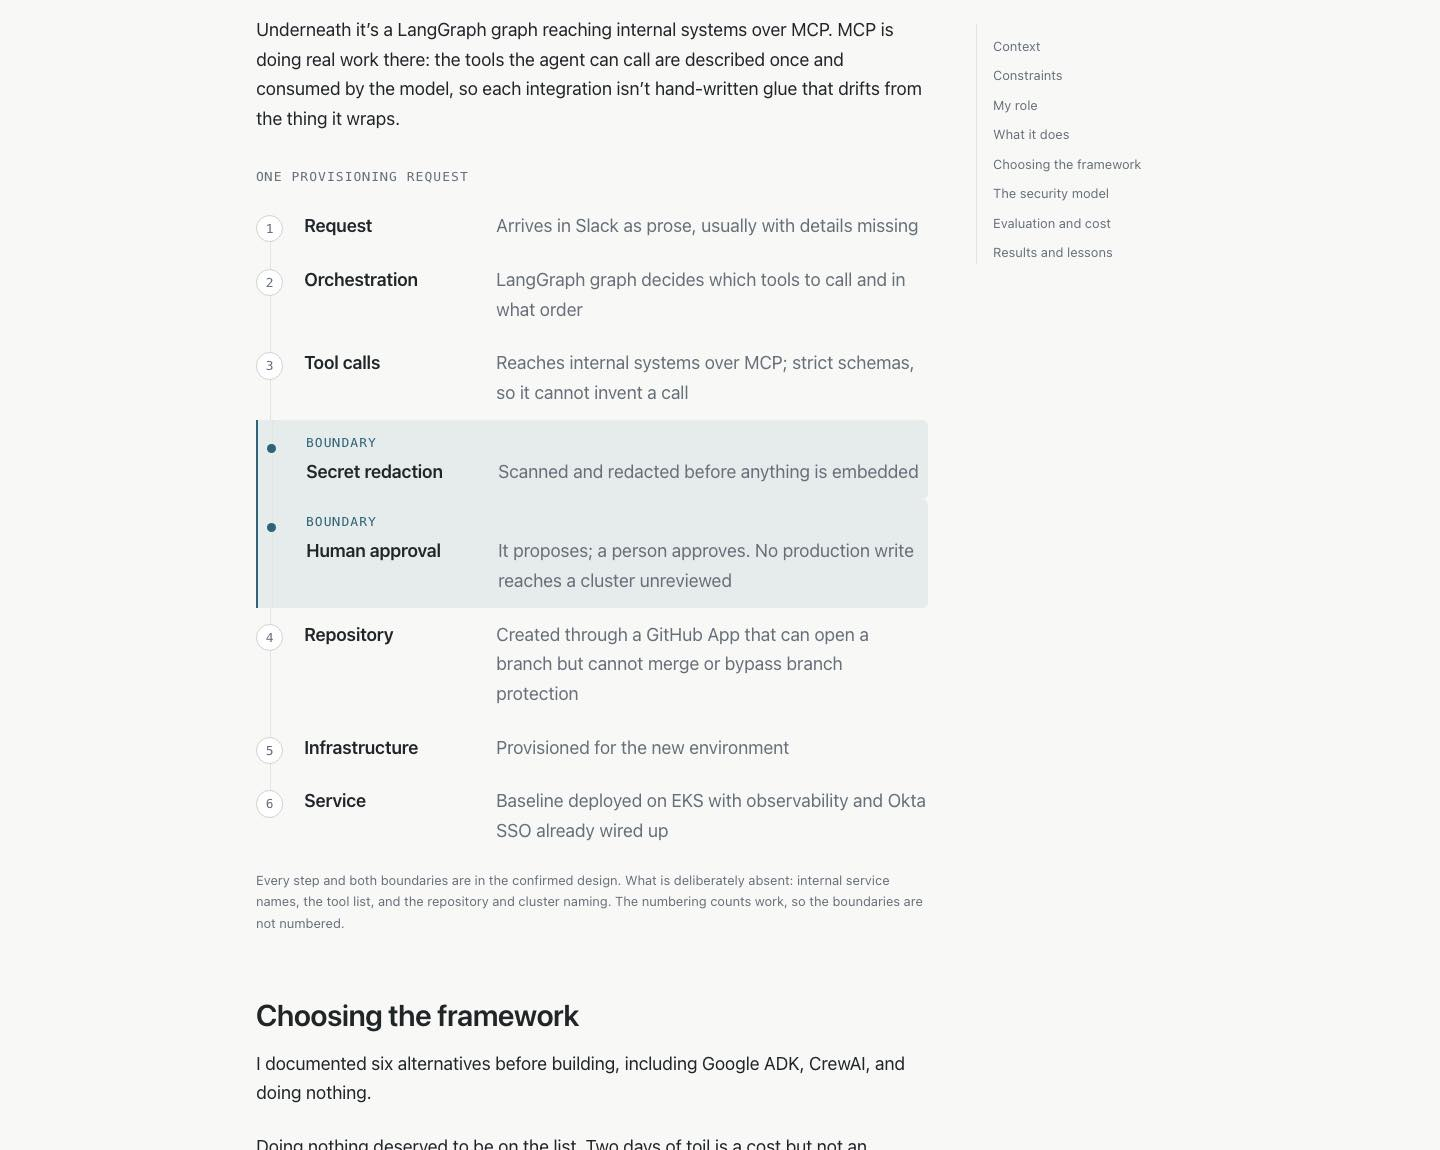
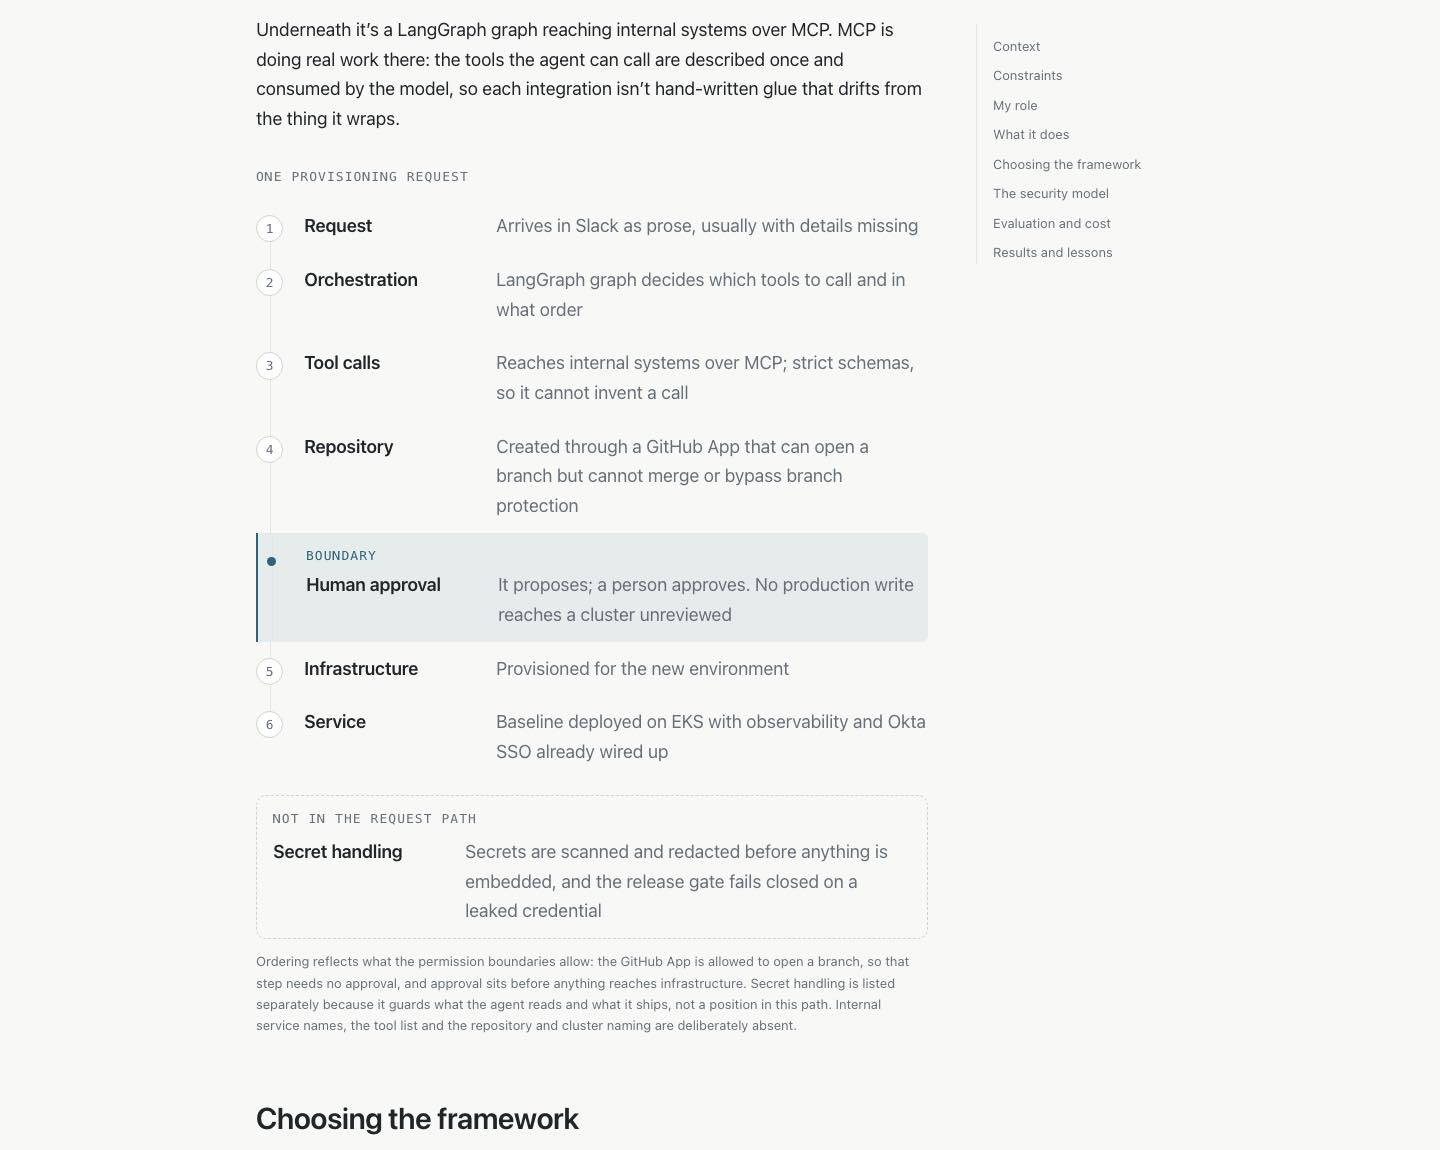
fix: put the agent diagram's boundaries in their real positions
Review finding, and it was correct on both counts.

Secret handling was drawn as a sequential gate between the tool calls and
human approval. The confirmed sentence is "secrets are scanned and redacted
before anything is embedded, with the release gate failing closed on a leaked
credential": that guards what the agent reads into its context and what its
own releases ship. Neither is a stage in a provisioning request, so placing
it in the numbered path asserted an execution position nothing supports, and
implied the agent's output is redacted before a human sees it, which is a
different claim.

Human approval sat before the repository step, which contradicted the next
line of the same record. The GitHub App is explicitly permitted to create
branches, so creating one needs no approval; what approval gates is a
production write reaching a cluster. Approval now sits after the repository
step and before infrastructure and the deployed service, which is the
ordering the permission boundaries themselves imply.

The flow shortcode gains a `note:` row type for a control that has no single
position in the sequence. Those rows are lifted out of the ordered list into
a separate block headed "Not in the request path", so the numbered list only
ever claims an order for things that have one. Without that row type the
only options were to misplace the control or to drop it, and dropping it
would have lost the most interesting part of the design.
[…]

Changed region(s): [[0.1562, 0.3652, 0.6562, 1.0], [0.1562, 0.3652, 0.3125, 0.5174]]

diff --git a/layouts/_shortcodes/flow.html b/layouts/_shortcodes/flow.html
@@ -6,12 +6,17 @@
        {{< flow caption="..." label="..." >}}
        Step name :: what happens
        gate: Boundary name :: what it refuses
+       note: Control name :: applies across the whole path, not at one point
        {{< /flow >}}
 
      A line prefixed `gate:` renders as a boundary rather than a step, because
      in an agent the interesting part is not the happy path, it is where the
      path is interrupted. Steps are numbered; gates are not, so the numbering
      counts work and not checkpoints.
+
+     `note:` is for a control that does not sit at one position in the
+     sequence. Putting such a control in the numbered path would assert an
+     execution order, which is the mistake this row type exists to avoid.
 
      Same reasoning as the `stack` shortcode: HTML rather than an SVG, so it
      reflows at 390px, follows the theme tokens, stays selectable and is read
@@ -22,11 +27,13 @@
   {{- $line := trim . " \t" -}}
   {{- with $line -}}
     {{- $isGate := hasPrefix (lower $line) "gate:" -}}
+    {{- $isNote := hasPrefix (lower $line) "note:" -}}
     {{- $body := $line -}}
-    {{- if $isGate }}{{ $body = trim (substr $line 5) " " }}{{ end -}}
+    {{- if or $isGate $isNote }}{{ $body = trim (substr $line 5) " " }}{{ end -}}
     {{- $parts := split $body "::" -}}
     {{- $rows = $rows | append (dict
         "gate" $isGate
+        "note" $isNote
         "name" (trim (index $parts 0) " ")
         "detail" (cond (gt (len $parts) 1) (trim (index $parts 1) " ") "")
       ) -}}
@@ -36,8 +43,12 @@
 
 <figure class="diagram flow" role="group" aria-labelledby="{{ $id }}-label">
   <p class="diagram__label mono" id="{{ $id }}-label">{{ .Get "label" | default "Request flow" }}</p>
+  {{/* Sequenced rows stay in the ordered list. Cross-cutting controls are
+       lifted out of it, so the list only ever claims an order for things
+       that have one. */}}
   <ol class="flow__steps">
     {{- range $rows }}
+    {{- if not .note }}
     <li class="flow__row{{ if .gate }} flow__row--gate{{ end }}">
       {{- if .gate }}
       <span class="flow__gate-label mono">Boundary</span>
@@ -48,7 +59,17 @@
       {{- end }}
     </li>
     {{- end }}
+    {{- end }}
   </ol>
+  {{- $notes := where $rows "note" true }}
+  {{- with $notes }}
+  <dl class="flow__controls">
+    <dt class="flow__controls-label mono">Not in the request path</dt>
+    {{- range . }}
+    <dd><span class="flow__name">{{ .name }}</span>{{ with .detail }} <span class="flow__detail">{{ . }}</span>{{ end }}</dd>
+    {{- end }}
+  </dl>
+  {{- end }}
   {{- with .Get "caption" }}
   <figcaption>{{ . | markdownify }}</figcaption>
   {{- end }}

diff --git a/assets/css/main.css b/assets/css/main.css
@@ -1493,3 +1493,35 @@ main > .section:last-of-type {
     grid-column: 1 / -1;
   }
 }
+
+/* Controls that are not positioned in the sequence. Visually attached to the
+   flow but outside its numbering, so the diagram never implies an execution
+   order for something that does not have one. */
+.flow__controls {
+  margin: var(--space-4) 0 0;
+  padding: var(--space-3) var(--space-4);
+  border: 1px dashed var(--border-strong);
+  border-radius: var(--radius-lg);
+  display: grid;
+  gap: var(--space-2);
+}
+
+.flow__controls-label {
+  color: var(--text-dim);
+  text-transform: uppercase;
+  letter-spacing: 0.08em;
+}
+
+.flow__controls dd {
+  margin: 0;
+  display: grid;
+  gap: var(--space-1);
+}
+
+@media (min-width: 40rem) {
+  .flow__controls dd {
+    grid-template-columns: 11rem minmax(0, 1fr);
+    gap: var(--space-1) var(--space-4);
+    align-items: baseline;
+  }
+}

diff --git a/content/work/infrastructure-agent.md b/content/work/infrastructure-agent.md
@@ -47,15 +47,15 @@ Underneath it's a LangGraph graph reaching internal systems over MCP. MCP is doi
 work there: the tools the agent can call are described once and consumed by the model, so
 each integration isn't hand-written glue that drifts from the thing it wraps.
 
-{{< flow label="One provisioning request" caption="Every step and both boundaries are in the confirmed design. What is deliberately absent: internal service names, the tool list, and the repository and cluster naming. The numbering counts work, so the boundaries are not numbered." >}}
+{{< flow label="One provisioning request" caption="Ordering reflects what the permission boundaries allow: the GitHub App is allowed to open a branch, so that step needs no approval, and approval sits before anything reaches infrastructure. Secret handling is listed separately because it guards what the agent reads and what it ships, not a position in this path. Internal service names, the tool list and the repository and cluster naming are deliberately absent." >}}
 Request :: Arrives in Slack as prose, usually with details missing
 Orchestration :: LangGraph graph decides which tools to call and in what order
 Tool calls :: Reaches internal systems over MCP; strict schemas, so it cannot invent a call
-gate: Secret redaction :: Scanned and redacted before anything is embedded
-gate: Human approval :: It proposes; a person approves. No production write reaches a cluster unreviewed
 Repository :: Created through a GitHub App that can open a branch but cannot merge or bypass branch protection
+gate: Human approval :: It proposes; a person approves. No production write reaches a cluster unreviewed
 Infrastructure :: Provisioned for the new environment
 Service :: Baseline deployed on EKS with observability and Okta SSO already wired up
+note: Secret handling :: Secrets are scanned and redacted before anything is embedded, and the release gate fails closed on a leaked credential
 {{< /flow >}}
 
 ## Choosing the framework
